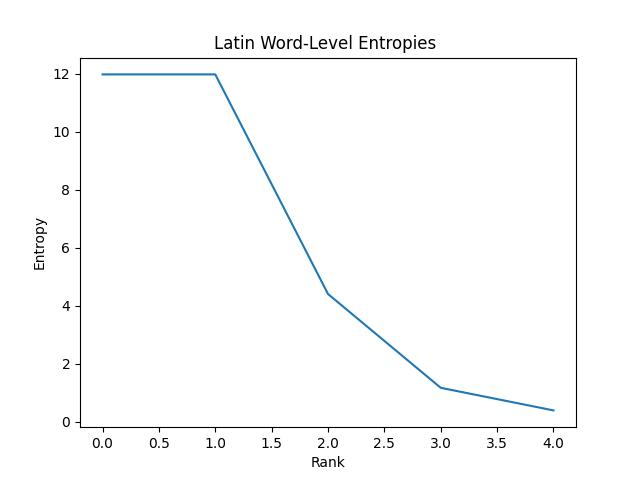
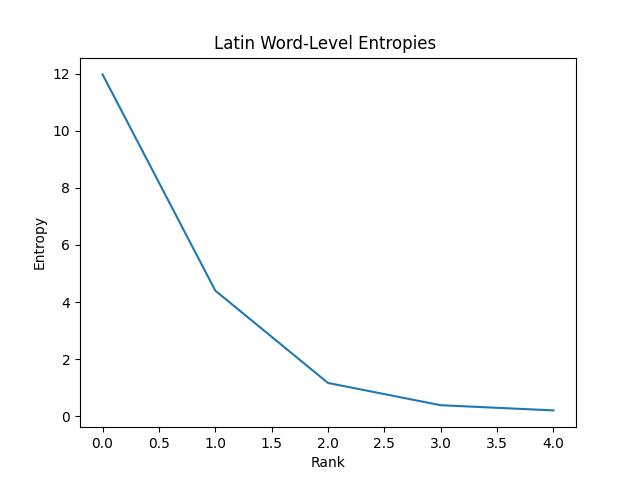
bug fixed #1

diff --git a/LAB4/runner.py b/LAB4/runner.py
@@ -13,7 +13,7 @@ def compute_conditional_entropy(text, rank):
         return compute_entropy(text)
 
     # Create n-grams and prefixes
-    ngrams = [tuple(text[i:i + rank]) for i in range(len(text) - rank + 1)]
+    ngrams = [tuple(text[i:i + rank+1]) for i in range(len(text) - rank + 1)]
     prefixes = [ngram[:-1] for ngram in ngrams]
 
     ngram_count = Counter(ngrams)
@@ -68,7 +68,7 @@ with open('LAB4/output.txt', 'w', encoding='utf-8') as output_file:
     output_file.write("\n") 
     print_entropies(english_word_entropies, "English Word-Level", rank, output_file)
 
-    output_file
+    output_file.write("\n")
     print_entropies(latin_char_entropies, "Latin Character-Level", rank, output_file)
     output_file.write("\n")
     print_entropies(latin_word_entropies, "Latin Word-Level", rank, output_file)
